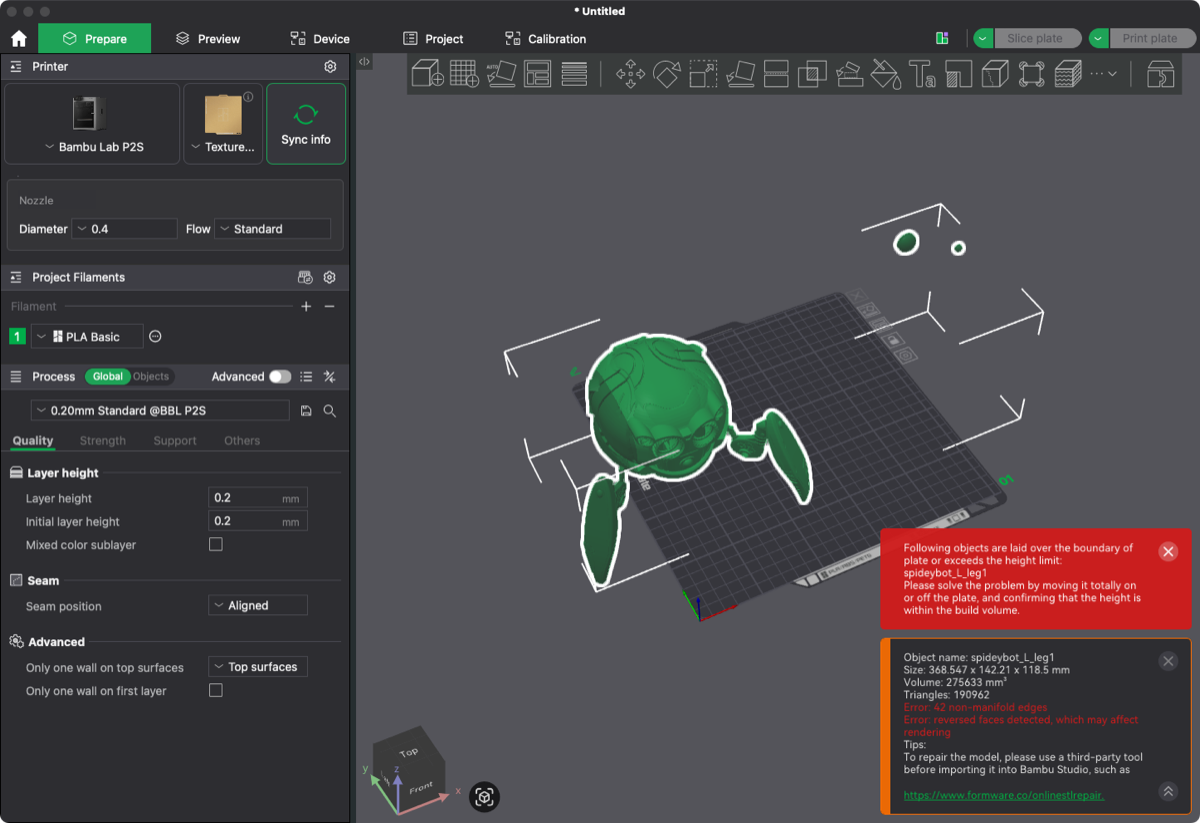
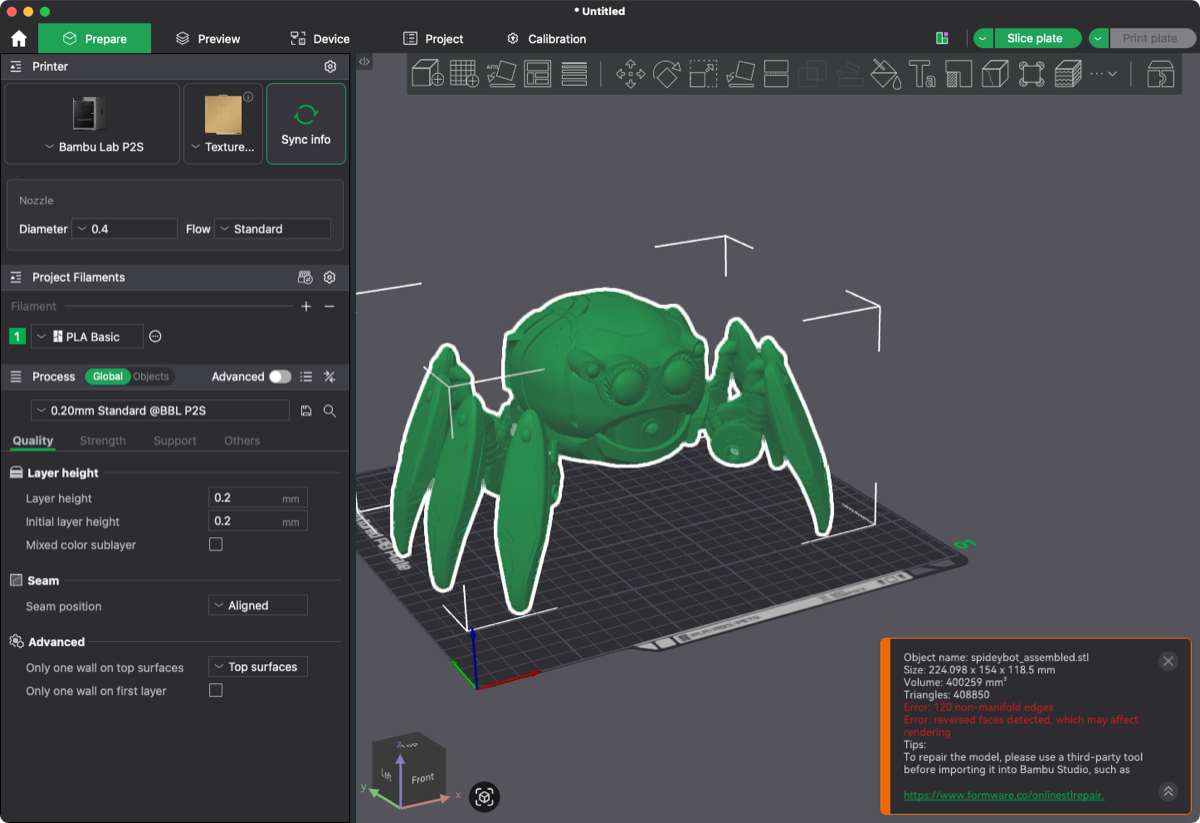
Show the whole Spider-Bot in carcass previews
Assemble script places the eyes in their sockets and adds the other six
legs (approximate layout); turntable GIF and Bambu Studio capture now show
the full robot; faster Pillow turntable renderer.

diff --git a/tools/stl_turntable.py b/tools/stl_turntable.py
@@ -2,21 +2,37 @@
 """Render a turntable animation (GIF) of one or more binary STL files shown together.
 
 Usage:
-    python3 stl_turntable.py OUT.gif part1.stl [part2.stl ...] [--frames 36] [--elev 20] [--size 480]
+    python3 stl_turntable.py OUT.gif part1.stl [part2.stl ...] [--frames 36] [--elev 20] [--size 520]
 
-Needs numpy, matplotlib and Pillow (pip install numpy matplotlib pillow).
+Flat-shaded painter's renderer with Pillow: seconds per frame even for 400k triangles.
+Needs numpy and Pillow (pip install numpy pillow).
 """
 import argparse
-import io
 
-import matplotlib
 import numpy as np
+from PIL import Image, ImageDraw
 
-matplotlib.use("Agg")
-import matplotlib.pyplot as plt  # noqa: E402
-from PIL import Image  # noqa: E402
+from stl_preview import load
 
-from stl_preview import draw, load  # noqa: E402
+COLOR = np.array([192, 57, 43])  # same red as stl_preview.py
+LIGHT = np.array([0.4, -0.7, 0.6]) / np.linalg.norm([0.4, -0.7, 0.6])
+
+
+def frame(tris, azim, elev, size):
+    a, e = np.radians(azim), np.radians(elev)
+    rz = np.array([[np.cos(a), -np.sin(a), 0], [np.sin(a), np.cos(a), 0], [0, 0, 1]])
+    rx = np.array([[1, 0, 0], [0, np.cos(e), -np.sin(e)], [0, np.sin(e), np.cos(e)]])
+    v = tris @ (rx @ rz).T  # camera looks along +Y: screen x = X, screen up = Z, depth = Y
+    n = np.cross(v[:, 1] - v[:, 0], v[:, 2] - v[:, 0])
+    n /= np.linalg.norm(n, axis=1, keepdims=True) + 1e-12
+    shade = 0.3 + 0.7 * np.abs(n @ LIGHT)
+    colors = (COLOR * shade[:, None]).astype(int)
+    pts = np.stack([v[:, :, 0] + size / 2, size / 2 - v[:, :, 2]], axis=2)
+    img = Image.new("RGB", (size, size), "white")
+    draw = ImageDraw.Draw(img)
+    for i in np.argsort(-v[:, :, 1].mean(1)):  # far to near
+        draw.polygon([tuple(q) for q in pts[i]], fill=tuple(colors[i]))
+    return img.convert("P", palette=Image.ADAPTIVE, colors=64)
 
 
 def main():
@@ -25,20 +41,13 @@ def main():
     p.add_argument("stls", nargs="+")
     p.add_argument("--frames", type=int, default=36)
     p.add_argument("--elev", type=float, default=20)
-    p.add_argument("--size", type=int, default=480)
+    p.add_argument("--size", type=int, default=520)
     a = p.parse_args()
 
     tris = np.concatenate([load(s) for s in a.stls])
-    frames = []
-    for i in range(a.frames):
-        fig = plt.figure(figsize=(a.size / 100, a.size / 100), dpi=100)
-        ax = fig.add_subplot(projection="3d")
-        draw(ax, tris, a.elev, -60 + 360 * i / a.frames)
-        plt.subplots_adjust(0, 0, 1, 1)
-        buf = io.BytesIO()
-        fig.savefig(buf, format="png")
-        plt.close(fig)
-        frames.append(Image.open(buf).convert("P", palette=Image.ADAPTIVE, colors=64))
+    lo, hi = tris.reshape(-1, 3).min(0), tris.reshape(-1, 3).max(0)
+    tris = (tris - (lo + hi) / 2) * (0.9 * a.size / np.linalg.norm(hi - lo))
+    frames = [frame(tris, -60 + 360 * i / a.frames, a.elev, a.size) for i in range(a.frames)]
     frames[0].save(a.out, save_all=True, append_images=frames[1:], duration=80, loop=0, optimize=True)
 
 

diff --git a/tools/assemble_jenscolt.py b/tools/assemble_jenscolt.py
@@ -1,0 +1,73 @@
+#!/usr/bin/env python3
+"""Join jenscolt's Spidey-Bot STLs into one assembled STL, for previews and as a size reference.
+
+The original files place body, base, sensor and the front leg pair; eyes are off to the side and only one leg per
+side is included. This script:
+  - keeps body, base, sensor and the front legs where the author put them;
+  - moves the big and small eye domes (2 of each) into their sockets, flat face back, dome forward (-Y);
+  - adds the other 3 legs per side: rear leg mirrored front/back, two middle legs rotated about the body's vertical
+    axis. THIS LAYOUT IS APPROXIMATE (not from the author), good enough for pictures, not for fitting parts.
+
+Usage:
+    python3 assemble_jenscolt.py CARCASS_DIR OUT.stl
+"""
+import os
+import sys
+
+import numpy as np
+
+from stl_preview import load
+
+CENTER_X, CENTER_Y = 35.6, -3.0          # vertical axis of the body (mm), from the leg sockets
+EYES = [(22.0, 91.0), (49.0, 91.0)]      # big eye socket centers (x, z)
+SMALL_EYES = [(7.0, 100.0), (64.0, 100.0)]
+EYE_BACK_Y, SMALL_EYE_BACK_Y = -50.0, -44.0
+MIDDLE_LEG_ANGLES = (-24.3, -48.7)       # degrees, rotating the front leg toward the rear
+
+
+def place(tris, x, z, back_y):
+    v = tris.reshape(-1, 3)
+    c = np.array([(v[:, 0].min() + v[:, 0].max()) / 2, v[:, 1].max(), (v[:, 2].min() + v[:, 2].max()) / 2])
+    return tris + (np.array([x, back_y, z]) - c)
+
+
+def rotate_z(tris, deg, side):
+    a = np.radians(deg if side == "R" else -deg)
+    rot = np.array([[np.cos(a), -np.sin(a), 0], [np.sin(a), np.cos(a), 0], [0, 0, 1]])
+    ctr = np.array([CENTER_X, CENTER_Y, 0])
+    return (tris - ctr) @ rot.T + ctr
+
+
+def mirror_y(tris):
+    out = tris.copy()
+    out[:, :, 1] = 2 * CENTER_Y - out[:, :, 1]
+    return out[:, ::-1]  # keep outward normals
+
+
+def save(path, tris):
+    tris = tris.astype("<f4")
+    n = np.cross(tris[:, 1] - tris[:, 0], tris[:, 2] - tris[:, 0])
+    n /= np.linalg.norm(n, axis=1, keepdims=True) + 1e-12
+    rec = np.zeros(len(tris), dtype=[("n", "<3f4"), ("v", "<9f4"), ("a", "<u2")])
+    rec["n"], rec["v"] = n, tris.reshape(-1, 9)
+    with open(path, "wb") as f:
+        f.write(b"Spidey-Bot by jenscolt, assembled preview".ljust(80, b" "))
+        f.write(np.uint32(len(tris)).tobytes())
+        f.write(rec.tobytes())
+
+
+def main():
+    d, out = sys.argv[1], sys.argv[2]
+    part = lambda name: load(os.path.join(d, f"spideybot_{name}.stl"))  # noqa: E731
+    parts = [part("body"), part("base"), part("sensor")]
+    parts += [place(part("eye"), x, z, EYE_BACK_Y) for x, z in EYES]
+    parts += [place(part("small_eye"), x, z, SMALL_EYE_BACK_Y) for x, z in SMALL_EYES]
+    for side in ("L", "R"):
+        leg = np.concatenate([part(f"{side}_leg1"), part(f"{side}_leg2")])
+        parts += [leg, mirror_y(leg)]
+        parts += [rotate_z(leg, a, side) for a in MIDDLE_LEG_ANGLES]
+    save(out, np.concatenate(parts))
+
+
+if __name__ == "__main__":
+    main()

diff --git a/build-log.md b/build-log.md
@@ -33,17 +33,22 @@ can be published; reference only) and the MyMiniFactory «Spider BOT» (an unrel
    HTTP 403.
 2. Check every STL is valid and measure it: [`tools/stl_preview.py`](tools/stl_preview.py) prints the size of each part
    and renders the previews.
-3. Open all 9 STLs at once in Bambu Studio to check they import.
-4. Files, sizes and previews: [cad/carcass-jenscolt/](cad/carcass-jenscolt/).
+3. The files place body, base, sensor and only the front leg pair; the eyes are off to the side. Join everything into
+   one assembled STL: `python3 tools/assemble_jenscolt.py cad/carcass-jenscolt spideybot_assembled.stl`. It moves the
+   4 eye domes into their sockets and adds the other 3 legs per side (rear mirrored, middle two rotated). The leg
+   layout is approximate, read off the author's photos: fine for pictures, not for fitting parts.
+4. Open the assembled STL in Bambu Studio to check it imports.
+5. Files, sizes and previews: [cad/carcass-jenscolt/](cad/carcass-jenscolt/).
 
 **Result:** 9 binary STLs. The body is a hollow shell 96 × 110 × 66 mm. The base has posts and mounts inside. The
-legs are static display parts.
+legs are static display parts. Print 4 of each leg file per side (8 legs) and 2 of each eye. Assembled, the robot
+measures 224 × 154 × 118 mm.
 
-![Carcass turntable](cad/carcass-jenscolt/images/body-turntable.gif)
+![Assembled carcass turntable](cad/carcass-jenscolt/images/assembled-turntable.gif)
 
 ![Carcass parts](cad/carcass-jenscolt/images/parts.png)
 
-Bambu Studio imports them, but reports mesh errors (non-manifold edges and reversed faces); every file has some.
+Bambu Studio imports the assembly, but reports mesh errors (non-manifold edges and reversed faces); every file has some.
 
 ![Bambu Studio import](cad/carcass-jenscolt/images/bambu-studio-import.png)
 

diff --git a/cad/carcass-jenscolt/README.md b/cad/carcass-jenscolt/README.md
@@ -8,7 +8,10 @@ for the carcass; my modified versions will live in their own folder.
 see [LICENSE.txt](LICENSE.txt). Unlike the rest of the repo, these files and anything derived from them are
 non-commercial and must keep this license.
 
-![Body turntable](images/body-turntable.gif)
+![Assembled turntable](images/assembled-turntable.gif)
+
+Assembled with [`assemble_jenscolt.py`](../../tools/assemble_jenscolt.py): 224 × 154 × 118 mm. Body, base, sensor and
+front legs are where the author placed them; eyes moved into their sockets; the other 6 legs placed approximately.
 
 ![All parts](images/parts.png)
 
@@ -22,7 +25,7 @@ non-commercial and must keep this license.
 | `spideybot_small_eye.stl` | 7.3 × 4.8 × 7.4 | 3692 | Small eye dome |
 | `spideybot_sensor.stl` | 7.6 × 4.8 × 7.6 | 3692 | Front sensor dome |
 
-Sizes at 100 % scale. The parts are laid out on a print plate, not in assembled position.
+Sizes at 100 % scale. For the full robot print 4 of each leg file (L and R) and 2 of each eye.
 
 ![Body and base from below](images/underside.png)
 
@@ -36,4 +39,4 @@ Sizes at 100 % scale. The parts are laid out on a print plate, not in assembled 
 - Thingiverse rejects scripted downloads (HTTP 403). Download by hand with **Download all files** on the thing page.
 - Images regenerated with [`../../tools/stl_preview.py`](../../tools/stl_preview.py):
   `python3 stl_preview.py images/parts.png *.stl` and `--elev -70` for the underside; turntable with
-  [`stl_turntable.py`](../../tools/stl_turntable.py) `images/body-turntable.gif spideybot_body.stl`.
+  [`stl_turntable.py`](../../tools/stl_turntable.py) `images/assembled-turntable.gif spideybot_assembled.stl`.

diff --git a/ai-log.md b/ai-log.md
@@ -6,4 +6,4 @@ assembly are done by me.
 
 | Date | Phase | Task | AI did | Checked by |
 |---|---|---|---|---|
-| 2026-11-08 | 2 · CAD | Carcass base model | Searched for faithful models and compared licenses; measured the 9 STLs and checked them for mesh errors; wrote [`tools/stl_preview.py`](tools/stl_preview.py) and [`tools/stl_turntable.py`](tools/stl_turntable.py) for the previews | Opened in Bambu Studio: imports, same mesh errors reported |
+| 2026-11-08 | 2 · CAD | Carcass base model | Searched for faithful models and compared licenses; measured the 9 STLs and checked them for mesh errors; wrote [`tools/stl_preview.py`](tools/stl_preview.py) and [`tools/stl_turntable.py`](tools/stl_turntable.py) for the previews; [`tools/assemble_jenscolt.py`](tools/assemble_jenscolt.py) to assemble the full robot (eye sockets measured from the mesh, leg layout approximate) | Opened in Bambu Studio: imports, same mesh errors reported. Leg count (8) from the author's photos; exact leg layout not checked |

diff --git a/README.md b/README.md
@@ -25,7 +25,7 @@ designed with AI help and how it was checked.
 | Folder | What |
 |---|---|
 | [cad/carcass-jenscolt/](cad/carcass-jenscolt/) | Carcass base model by jenscolt, unmodified (CC BY-NC-SA) |
-| [tools/](tools/) | Helper scripts: [`stl_preview.py`](tools/stl_preview.py) renders and measures STL files, [`stl_turntable.py`](tools/stl_turntable.py) makes turntable GIFs |
+| [tools/](tools/) | Helper scripts: [`stl_preview.py`](tools/stl_preview.py) renders and measures STL files, [`stl_turntable.py`](tools/stl_turntable.py) makes turntable GIFs, [`assemble_jenscolt.py`](tools/assemble_jenscolt.py) joins the carcass parts into one assembled STL |
 
 ## License
 
